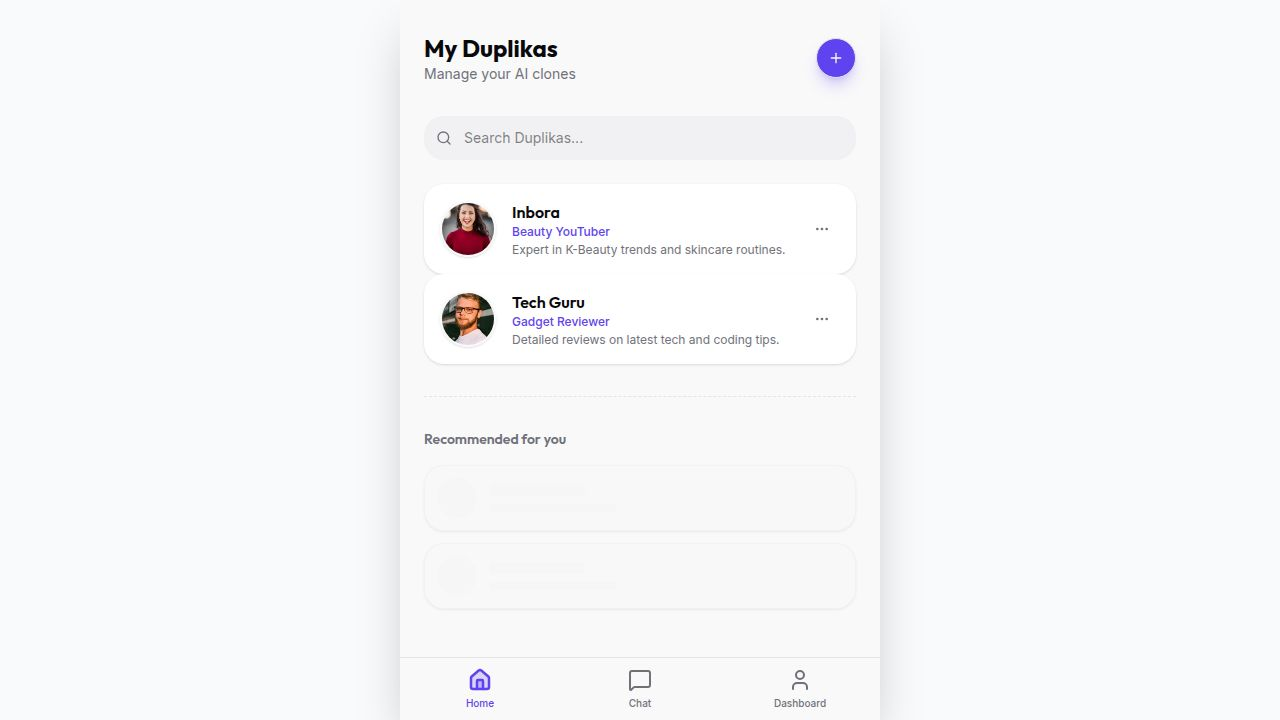
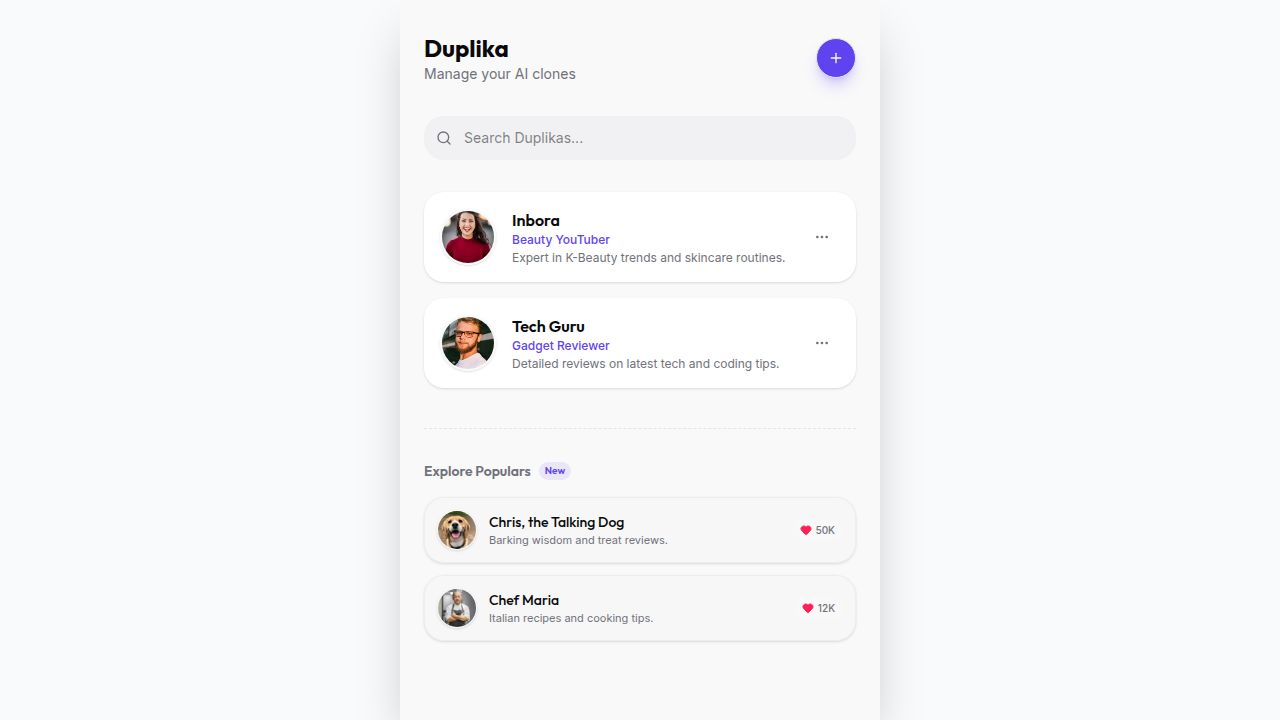
Update dashboard and user information pages with new features
Implement interactive public status toggle on dashboard, add fact and Q&A management with add/edit functionality on my-info page.

Replit-Commit-Author: Agent
Replit-Commit-Session-Id: 2643a6e0-8f1a-4cf7-b0c6-ed97013d2fc9
Replit-Commit-Checkpoint-Type: full_checkpoint
Replit-Commit-Event-Id: b5447a59-548a-4971-a785-42dc8fbf46f6
Replit-Commit-Screenshot-Url: https://storage.googleapis.com/screenshot-production-us-central1/6b7f5051-3b0f-43a7-bdbf-d654fba2acbe/2643a6e0-8f1a-4cf7-b0c6-ed97013d2fc9/24Tzwmi
Replit-Helium-Checkpoint-Created: true

diff --git a/client/src/pages/my-info.tsx b/client/src/pages/my-info.tsx
@@ -1,25 +1,61 @@
 import { MobileContainer } from "@/components/layout/mobile-container";
 import { Button } from "@/components/ui/button";
-import { ArrowLeft, Plus, Edit2, Trash2 } from "lucide-react";
+import { ArrowLeft, Plus, ChevronRight } from "lucide-react";
 import { Link } from "wouter";
 import { Card } from "@/components/ui/card";
 import { Tabs, TabsContent, TabsList, TabsTrigger } from "@/components/ui/tabs";
-import { ScrollArea } from "@/components/ui/scroll-area";
+import { Sheet, SheetContent, SheetHeader, SheetTitle, SheetTrigger, SheetClose } from "@/components/ui/sheet";
+import { Label } from "@/components/ui/label";
+import { Input } from "@/components/ui/input";
+import { Textarea } from "@/components/ui/textarea";
+import { useState } from "react";
 
-const MOCK_FACTS = [
+const INITIAL_FACTS = [
   { id: 1, text: "I have dry skin type." },
   { id: 2, text: "My favorite color is pastel pink." },
   { id: 3, text: "I prefer dewy finish over matte." },
 ];
 
-const MOCK_QA = [
+const INITIAL_QA = [
   { id: 1, q: "What cushion do you recommend?", a: "I love the Hince Cover Master Pink Cushion for dry skin!" },
   { id: 2, q: "How do you start your routine?", a: "Always start with a gentle toner pad." },
 ];
 
 export default function MyInfo() {
+  const [facts, setFacts] = useState(INITIAL_FACTS);
+  const [qaList, setQaList] = useState(INITIAL_QA);
+  
+  // State for adding/editing
+  const [editingFact, setEditingFact] = useState<{id: number, text: string} | null>(null);
+  const [newFact, setNewFact] = useState("");
+  
+  const [editingQa, setEditingQa] = useState<{id: number, q: string, a: string} | null>(null);
+  const [newQuestion, setNewQuestion] = useState("");
+  const [newAnswer, setNewAnswer] = useState("");
+
+  const handleSaveFact = () => {
+    if (editingFact) {
+        setFacts(facts.map(f => f.id === editingFact.id ? { ...f, text: editingFact.text } : f));
+        setEditingFact(null);
+    } else if (newFact) {
+        setFacts([...facts, { id: Date.now(), text: newFact }]);
+        setNewFact("");
+    }
+  };
+
+  const handleSaveQa = () => {
+    if (editingQa) {
+        setQaList(qaList.map(item => item.id === editingQa.id ? { ...item, q: editingQa.q, a: editingQa.a } : item));
+        setEditingQa(null);
+    } else if (newQuestion && newAnswer) {
+        setQaList([...qaList, { id: Date.now(), q: newQuestion, a: newAnswer }]);
+        setNewQuestion("");
+        setNewAnswer("");
+    }
+  };
+
   return (
-    <MobileContainer showNav={false}>
+    <MobileContainer>
       <header className="flex items-center gap-4 px-4 py-4 border-b border-border sticky top-0 bg-background z-10">
         <Link href="/dashboard/1">
             <Button variant="ghost" size="icon" className="-ml-2">
@@ -36,50 +72,170 @@ export default function MyInfo() {
                 <TabsTrigger value="qa" className="rounded-lg text-sm font-medium data-[state=active]:bg-background data-[state=active]:shadow-sm">Q&A</TabsTrigger>
             </TabsList>
 
+            {/* FACTS TAB */}
             <TabsContent value="facts" className="space-y-4">
                 <div className="flex justify-between items-center mb-2">
                     <p className="text-sm text-muted-foreground">Core persona information</p>
-                    <Button size="sm" variant="outline" className="h-8 gap-1 rounded-full text-xs">
-                        <Plus className="w-3 h-3" /> Add Fact
-                    </Button>
+                    
+                    <Sheet>
+                        <SheetTrigger asChild>
+                            <Button size="sm" variant="outline" className="h-8 gap-1 rounded-full text-xs" onClick={() => { setEditingFact(null); setNewFact(""); }}>
+                                <Plus className="w-3 h-3" /> Add Fact
+                            </Button>
+                        </SheetTrigger>
+                        <SheetContent side="bottom" className="rounded-t-[20px] max-w-[480px] mx-auto">
+                            <SheetHeader>
+                                <SheetTitle>Add New Fact</SheetTitle>
+                            </SheetHeader>
+                            <div className="py-6 space-y-4">
+                                <div className="space-y-2">
+                                    <Label>Fact</Label>
+                                    <Textarea 
+                                        placeholder="e.g. I have 3 cats named Luna, Star, and Sun." 
+                                        value={newFact}
+                                        onChange={(e) => setNewFact(e.target.value)}
+                                    />
+                                </div>
+                                <div className="pt-4">
+                                    <SheetClose asChild>
+                                        <Button className="w-full h-12 rounded-xl" onClick={handleSaveFact}>Save Fact</Button>
+                                    </SheetClose>
+                                </div>
+                            </div>
+                        </SheetContent>
+                    </Sheet>
                 </div>
-                {MOCK_FACTS.map((fact) => (
-                    <Card key={fact.id} className="p-4 flex items-center justify-between group bg-card hover:border-primary/50 transition-colors">
-                        <p className="text-sm font-medium">{fact.text}</p>
-                        <div className="flex gap-1 opacity-0 group-hover:opacity-100 transition-opacity">
-                            <Button variant="ghost" size="icon" className="h-8 w-8 text-muted-foreground hover:text-primary">
-                                <Edit2 className="w-4 h-4" />
-                            </Button>
-                            <Button variant="ghost" size="icon" className="h-8 w-8 text-muted-foreground hover:text-destructive">
-                                <Trash2 className="w-4 h-4" />
-                            </Button>
-                        </div>
-                    </Card>
+
+                {facts.map((fact) => (
+                    <Sheet key={fact.id}>
+                        <SheetTrigger asChild>
+                            <Card 
+                                className="p-4 flex items-center justify-between group bg-card hover:border-primary/50 transition-colors cursor-pointer active:scale-[0.99] transition-transform"
+                                onClick={() => setEditingFact(fact)}
+                            >
+                                <p className="text-sm font-medium">{fact.text}</p>
+                                <ChevronRight className="w-4 h-4 text-muted-foreground/50 group-hover:text-primary transition-colors" />
+                            </Card>
+                        </SheetTrigger>
+                         <SheetContent side="bottom" className="rounded-t-[20px] max-w-[480px] mx-auto">
+                            <SheetHeader>
+                                <SheetTitle>Edit Fact</SheetTitle>
+                            </SheetHeader>
+                            <div className="py-6 space-y-4">
+                                <div className="space-y-2">
+                                    <Label>Fact</Label>
+                                    <Textarea 
+                                        value={editingFact?.text || ""}
+                                        onChange={(e) => setEditingFact(prev => prev ? {...prev, text: e.target.value} : null)}
+                                    />
+                                </div>
+                                <div className="pt-4 flex gap-3">
+                                    <SheetClose asChild>
+                                        <Button variant="outline" className="flex-1 h-12 rounded-xl text-destructive border-destructive/20 hover:bg-destructive/5">Delete</Button>
+                                    </SheetClose>
+                                    <SheetClose asChild>
+                                        <Button className="flex-[2] h-12 rounded-xl" onClick={handleSaveFact}>Update Fact</Button>
+                                    </SheetClose>
+                                </div>
+                            </div>
+                        </SheetContent>
+                    </Sheet>
                 ))}
             </TabsContent>
 
+            {/* Q&A TAB */}
             <TabsContent value="qa" className="space-y-4">
                  <div className="flex justify-between items-center mb-2">
                     <p className="text-sm text-muted-foreground">Common questions & answers</p>
-                    <Button size="sm" variant="outline" className="h-8 gap-1 rounded-full text-xs">
-                        <Plus className="w-3 h-3" /> Add Q&A
-                    </Button>
-                </div>
-                {MOCK_QA.map((item) => (
-                    <Card key={item.id} className="p-4 group bg-card hover:border-primary/50 transition-colors">
-                        <div className="flex justify-between items-start mb-2">
-                             <div className="bg-primary/10 text-primary text-[10px] font-bold px-1.5 py-0.5 rounded uppercase tracking-wide mb-1 inline-block">Q</div>
-                             <div className="flex gap-1 opacity-0 group-hover:opacity-100 transition-opacity">
-                                <Button variant="ghost" size="icon" className="h-6 w-6 text-muted-foreground hover:text-primary">
-                                    <Edit2 className="w-3 h-3" />
-                                </Button>
+                    
+                    <Sheet>
+                        <SheetTrigger asChild>
+                            <Button size="sm" variant="outline" className="h-8 gap-1 rounded-full text-xs" onClick={() => { setEditingQa(null); setNewQuestion(""); setNewAnswer(""); }}>
+                                <Plus className="w-3 h-3" /> Add Q&A
+                            </Button>
+                        </SheetTrigger>
+                        <SheetContent side="bottom" className="rounded-t-[20px] max-w-[480px] mx-auto">
+                            <SheetHeader>
+                                <SheetTitle>Add New Q&A</SheetTitle>
+                            </SheetHeader>
+                            <div className="py-6 space-y-4">
+                                <div className="space-y-2">
+                                    <Label>Question</Label>
+                                    <Input 
+                                        placeholder="e.g. What's your favorite lipstick?" 
+                                        value={newQuestion}
+                                        onChange={(e) => setNewQuestion(e.target.value)}
+                                    />
+                                </div>
+                                <div className="space-y-2">
+                                    <Label>Answer</Label>
+                                    <Textarea 
+                                        placeholder="e.g. I absolutely love the Ruby Woo from MAC!" 
+                                        value={newAnswer}
+                                        onChange={(e) => setNewAnswer(e.target.value)}
+                                        className="min-h-[100px]"
+                                    />
+                                </div>
+                                <div className="pt-4">
+                                    <SheetClose asChild>
+                                        <Button className="w-full h-12 rounded-xl" onClick={handleSaveQa}>Save Q&A</Button>
+                                    </SheetClose>
+                                </div>
                             </div>
-                        </div>
-                        <p className="font-semibold text-sm mb-3">{item.q}</p>
-                        
-                         <div className="bg-secondary/10 text-secondary-foreground text-[10px] font-bold px-1.5 py-0.5 rounded uppercase tracking-wide mb-1 inline-block">A</div>
-                        <p className="text-sm text-muted-foreground leading-relaxed">{item.a}</p>
-                    </Card>
+                        </SheetContent>
+                    </Sheet>
+                </div>
+
+                {qaList.map((item) => (
+                    <Sheet key={item.id}>
+                        <SheetTrigger asChild>
+                            <Card 
+                                className="p-4 group bg-card hover:border-primary/50 transition-colors cursor-pointer active:scale-[0.99] transition-transform relative pr-8"
+                                onClick={() => setEditingQa(item)}
+                            >
+                                <div className="absolute right-4 top-1/2 -translate-y-1/2 opacity-0 group-hover:opacity-100 transition-opacity">
+                                    <ChevronRight className="w-4 h-4 text-muted-foreground" />
+                                </div>
+                                <div className="flex justify-between items-start mb-2">
+                                     <div className="bg-primary/10 text-primary text-[10px] font-bold px-1.5 py-0.5 rounded uppercase tracking-wide mb-1 inline-block">Q</div>
+                                </div>
+                                <p className="font-semibold text-sm mb-3">{item.q}</p>
+                                
+                                <div className="bg-secondary/10 text-secondary-foreground text-[10px] font-bold px-1.5 py-0.5 rounded uppercase tracking-wide mb-1 inline-block">A</div>
+                                <p className="text-sm text-muted-foreground leading-relaxed line-clamp-2">{item.a}</p>
+                            </Card>
+                        </SheetTrigger>
+                        <SheetContent side="bottom" className="rounded-t-[20px] max-w-[480px] mx-auto">
+                            <SheetHeader>
+                                <SheetTitle>Edit Q&A</SheetTitle>
+                            </SheetHeader>
+                            <div className="py-6 space-y-4">
+                                <div className="space-y-2">
+                                    <Label>Question</Label>
+                                    <Input 
+                                        value={editingQa?.q || ""}
+                                        onChange={(e) => setEditingQa(prev => prev ? {...prev, q: e.target.value} : null)}
+                                    />
+                                </div>
+                                <div className="space-y-2">
+                                    <Label>Answer</Label>
+                                    <Textarea 
+                                        value={editingQa?.a || ""}
+                                        onChange={(e) => setEditingQa(prev => prev ? {...prev, a: e.target.value} : null)}
+                                        className="min-h-[100px]"
+                                    />
+                                </div>
+                                <div className="pt-4 flex gap-3">
+                                    <SheetClose asChild>
+                                        <Button variant="outline" className="flex-1 h-12 rounded-xl text-destructive border-destructive/20 hover:bg-destructive/5">Delete</Button>
+                                    </SheetClose>
+                                    <SheetClose asChild>
+                                        <Button className="flex-[2] h-12 rounded-xl" onClick={handleSaveQa}>Update Q&A</Button>
+                                    </SheetClose>
+                                </div>
+                            </div>
+                        </SheetContent>
+                    </Sheet>
                 ))}
             </TabsContent>
         </Tabs>

diff --git a/client/src/pages/home.tsx b/client/src/pages/home.tsx
@@ -1,6 +1,6 @@
 import { MobileContainer } from "@/components/layout/mobile-container";
 import { Button } from "@/components/ui/button";
-import { Plus, Search, MoreHorizontal, Heart, MessageCircle } from "lucide-react";
+import { Plus, Search, MoreHorizontal, Heart } from "lucide-react";
 import { Link } from "wouter";
 import { Card } from "@/components/ui/card";
 import { Avatar, AvatarFallback, AvatarImage } from "@/components/ui/avatar";
@@ -49,7 +49,7 @@ export default function Home() {
       <div className="px-6 py-8">
         <header className="flex items-center justify-between mb-8">
             <div>
-                <h1 className="text-2xl font-bold font-heading">My Duplikas</h1>
+                <h1 className="text-2xl font-bold font-heading">Duplika</h1>
                 <p className="text-sm text-muted-foreground">Manage your AI clones</p>
             </div>
             <Link href="/create">
@@ -59,7 +59,7 @@ export default function Home() {
             </Link>
         </header>
 
-        <div className="relative mb-6">
+        <div className="relative mb-8">
             <Search className="absolute left-3 top-1/2 -translate-y-1/2 h-4 w-4 text-muted-foreground" />
             <input 
                 type="text" 
@@ -68,10 +68,10 @@ export default function Home() {
             />
         </div>
 
-        <div className="space-y-4">
+        <div className="space-y-4 mb-10">
             {MOCK_DUPLIKAS.map((duplika) => (
                 <Link key={duplika.id} href={`/dashboard/${duplika.id}`}>
-                    <Card className="p-4 flex items-center gap-4 hover:bg-secondary/30 transition-colors border-none shadow-sm cursor-pointer">
+                    <Card className="p-4 flex items-center gap-4 hover:bg-secondary/30 transition-colors border-none shadow-sm cursor-pointer mb-4">
                         <Avatar className="h-14 w-14 border-2 border-background shadow-sm">
                             <AvatarImage src={duplika.avatar} />
                             <AvatarFallback>{duplika.name[0]}</AvatarFallback>
@@ -93,9 +93,9 @@ export default function Home() {
             <h3 className="text-sm font-semibold text-muted-foreground mb-4 flex items-center gap-2">
                 Explore Populars <span className="text-[10px] bg-primary/10 text-primary px-1.5 py-0.5 rounded-full">New</span>
             </h3>
-            <div className="space-y-3">
+            <div className="space-y-4">
                 {POPULAR_DUPLIKAS.map((duplika) => (
-                    <Card key={duplika.id} className="p-3 flex items-center gap-3 border-border/50 bg-secondary/10 hover:bg-secondary/20 transition-colors cursor-pointer">
+                    <Card key={duplika.id} className="p-3 flex items-center gap-3 border-border/50 bg-secondary/10 hover:bg-secondary/20 transition-colors cursor-pointer mb-3">
                         <Avatar className="h-10 w-10 border border-background shadow-sm">
                             <AvatarImage src={duplika.avatar} />
                             <AvatarFallback>{duplika.name[0]}</AvatarFallback>

diff --git a/client/src/pages/dashboard.tsx b/client/src/pages/dashboard.tsx
@@ -6,9 +6,11 @@ import { ArrowLeft, MessageSquare, BookOpen, Ban, Link as LinkIcon, MessageCircl
 import { Link, useLocation } from "wouter";
 import { Avatar, AvatarFallback, AvatarImage } from "@/components/ui/avatar";
 import { toast } from "@/hooks/use-toast";
+import { useState } from "react";
 
 export default function Dashboard() {
   const [, setLocation] = useLocation();
+  const [isPublic, setIsPublic] = useState(true);
 
   const menuItems = [
     { icon: MessageSquare, label: "Test my Duplika", href: "/test-chat", action: true },
@@ -23,6 +25,15 @@ export default function Dashboard() {
     toast({
         title: "Link copied!",
         description: "Duplika URL copied to clipboard.",
+        duration: 2000,
+    });
+  };
+
+  const handlePublicToggle = (checked: boolean) => {
+    setIsPublic(checked);
+    toast({
+        title: checked ? "Duplika is now Public" : "Duplika is now Private",
+        description: checked ? "Anyone can find and chat with your Duplika." : "Only you can access your Duplika.",
         duration: 2000,
     });
   };
@@ -52,7 +63,7 @@ export default function Dashboard() {
                     <AvatarImage src="https://images.unsplash.com/photo-1494790108377-be9c29b29330?auto=format&fit=crop&q=80&w=150&h=150" />
                     <AvatarFallback>IB</AvatarFallback>
                 </Avatar>
-                <div className="absolute bottom-4 right-0 w-6 h-6 bg-green-500 border-2 border-white rounded-full"></div>
+                <div className={`absolute bottom-4 right-0 w-6 h-6 border-2 border-white rounded-full transition-colors ${isPublic ? 'bg-green-500' : 'bg-gray-400'}`}></div>
             </div>
             
             <h1 className="text-2xl font-bold font-heading">Inbora</h1>
@@ -85,7 +96,7 @@ export default function Dashboard() {
             
             <div className="flex items-center gap-2 bg-background/50 px-4 py-2 rounded-full border border-border/50">
                 <span className="text-sm font-medium">Public Status</span>
-                <Switch checked={true} />
+                <Switch checked={isPublic} onCheckedChange={handlePublicToggle} />
             </div>
         </div>
       </div>
